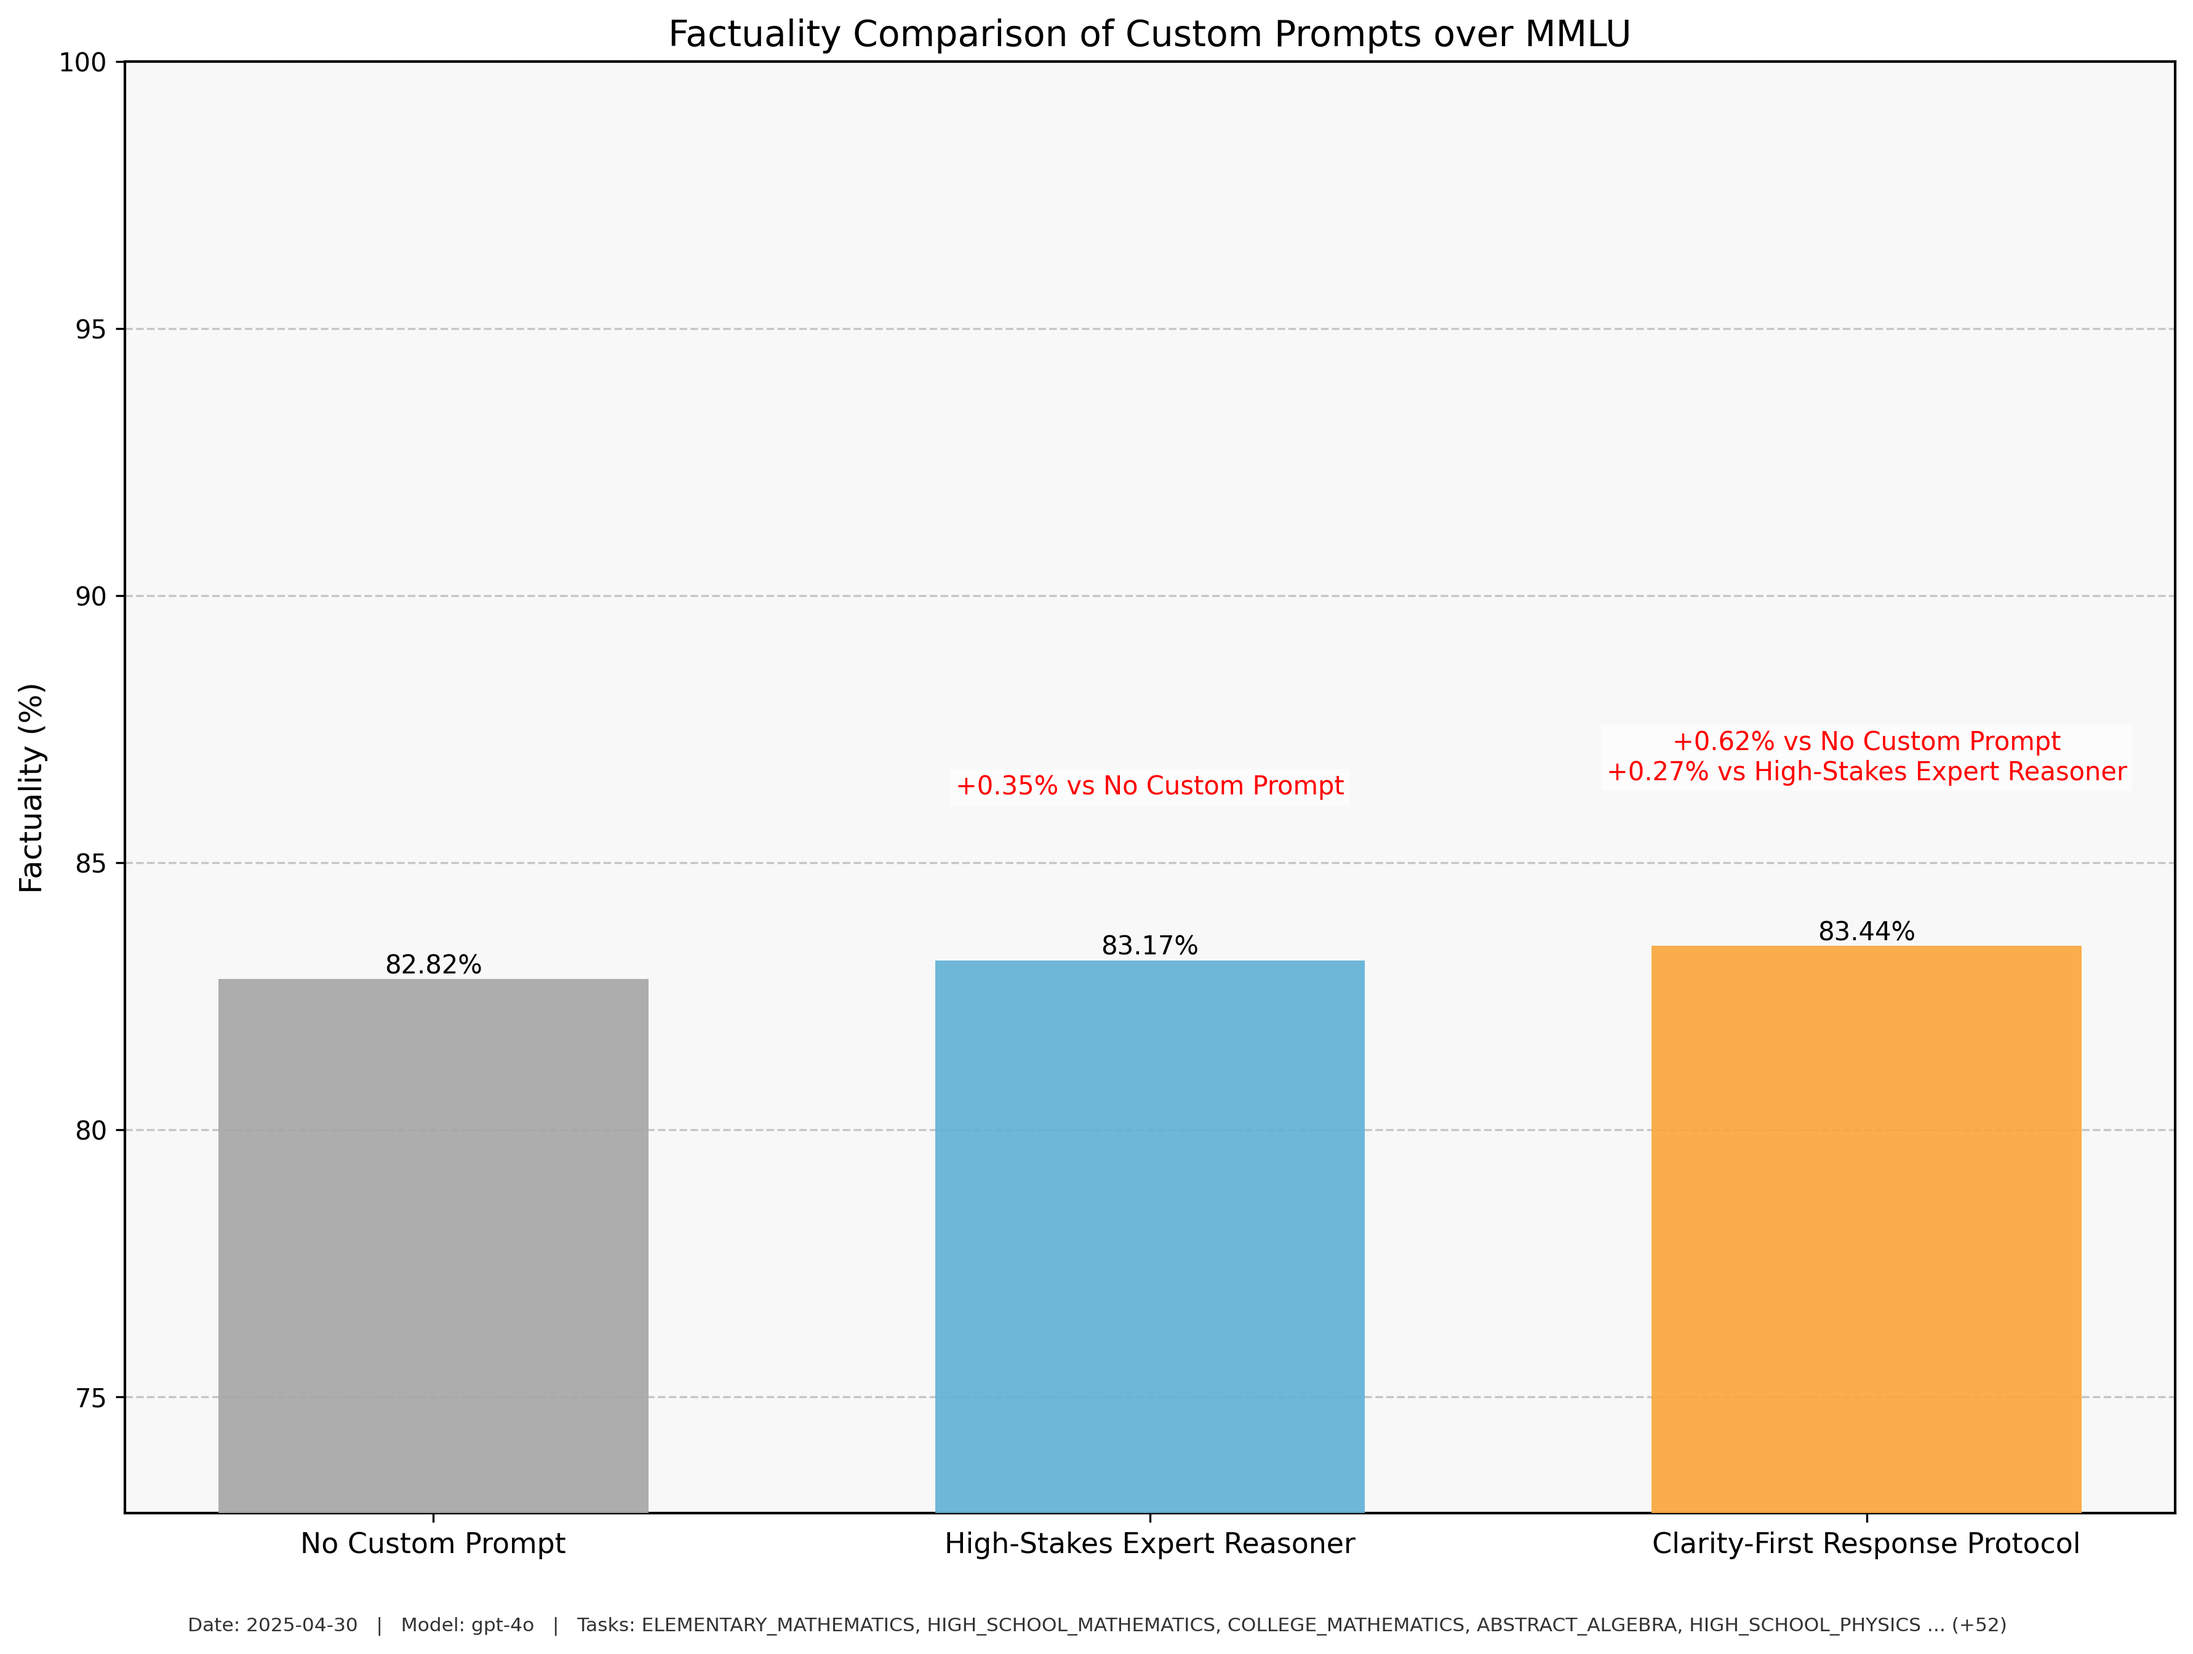
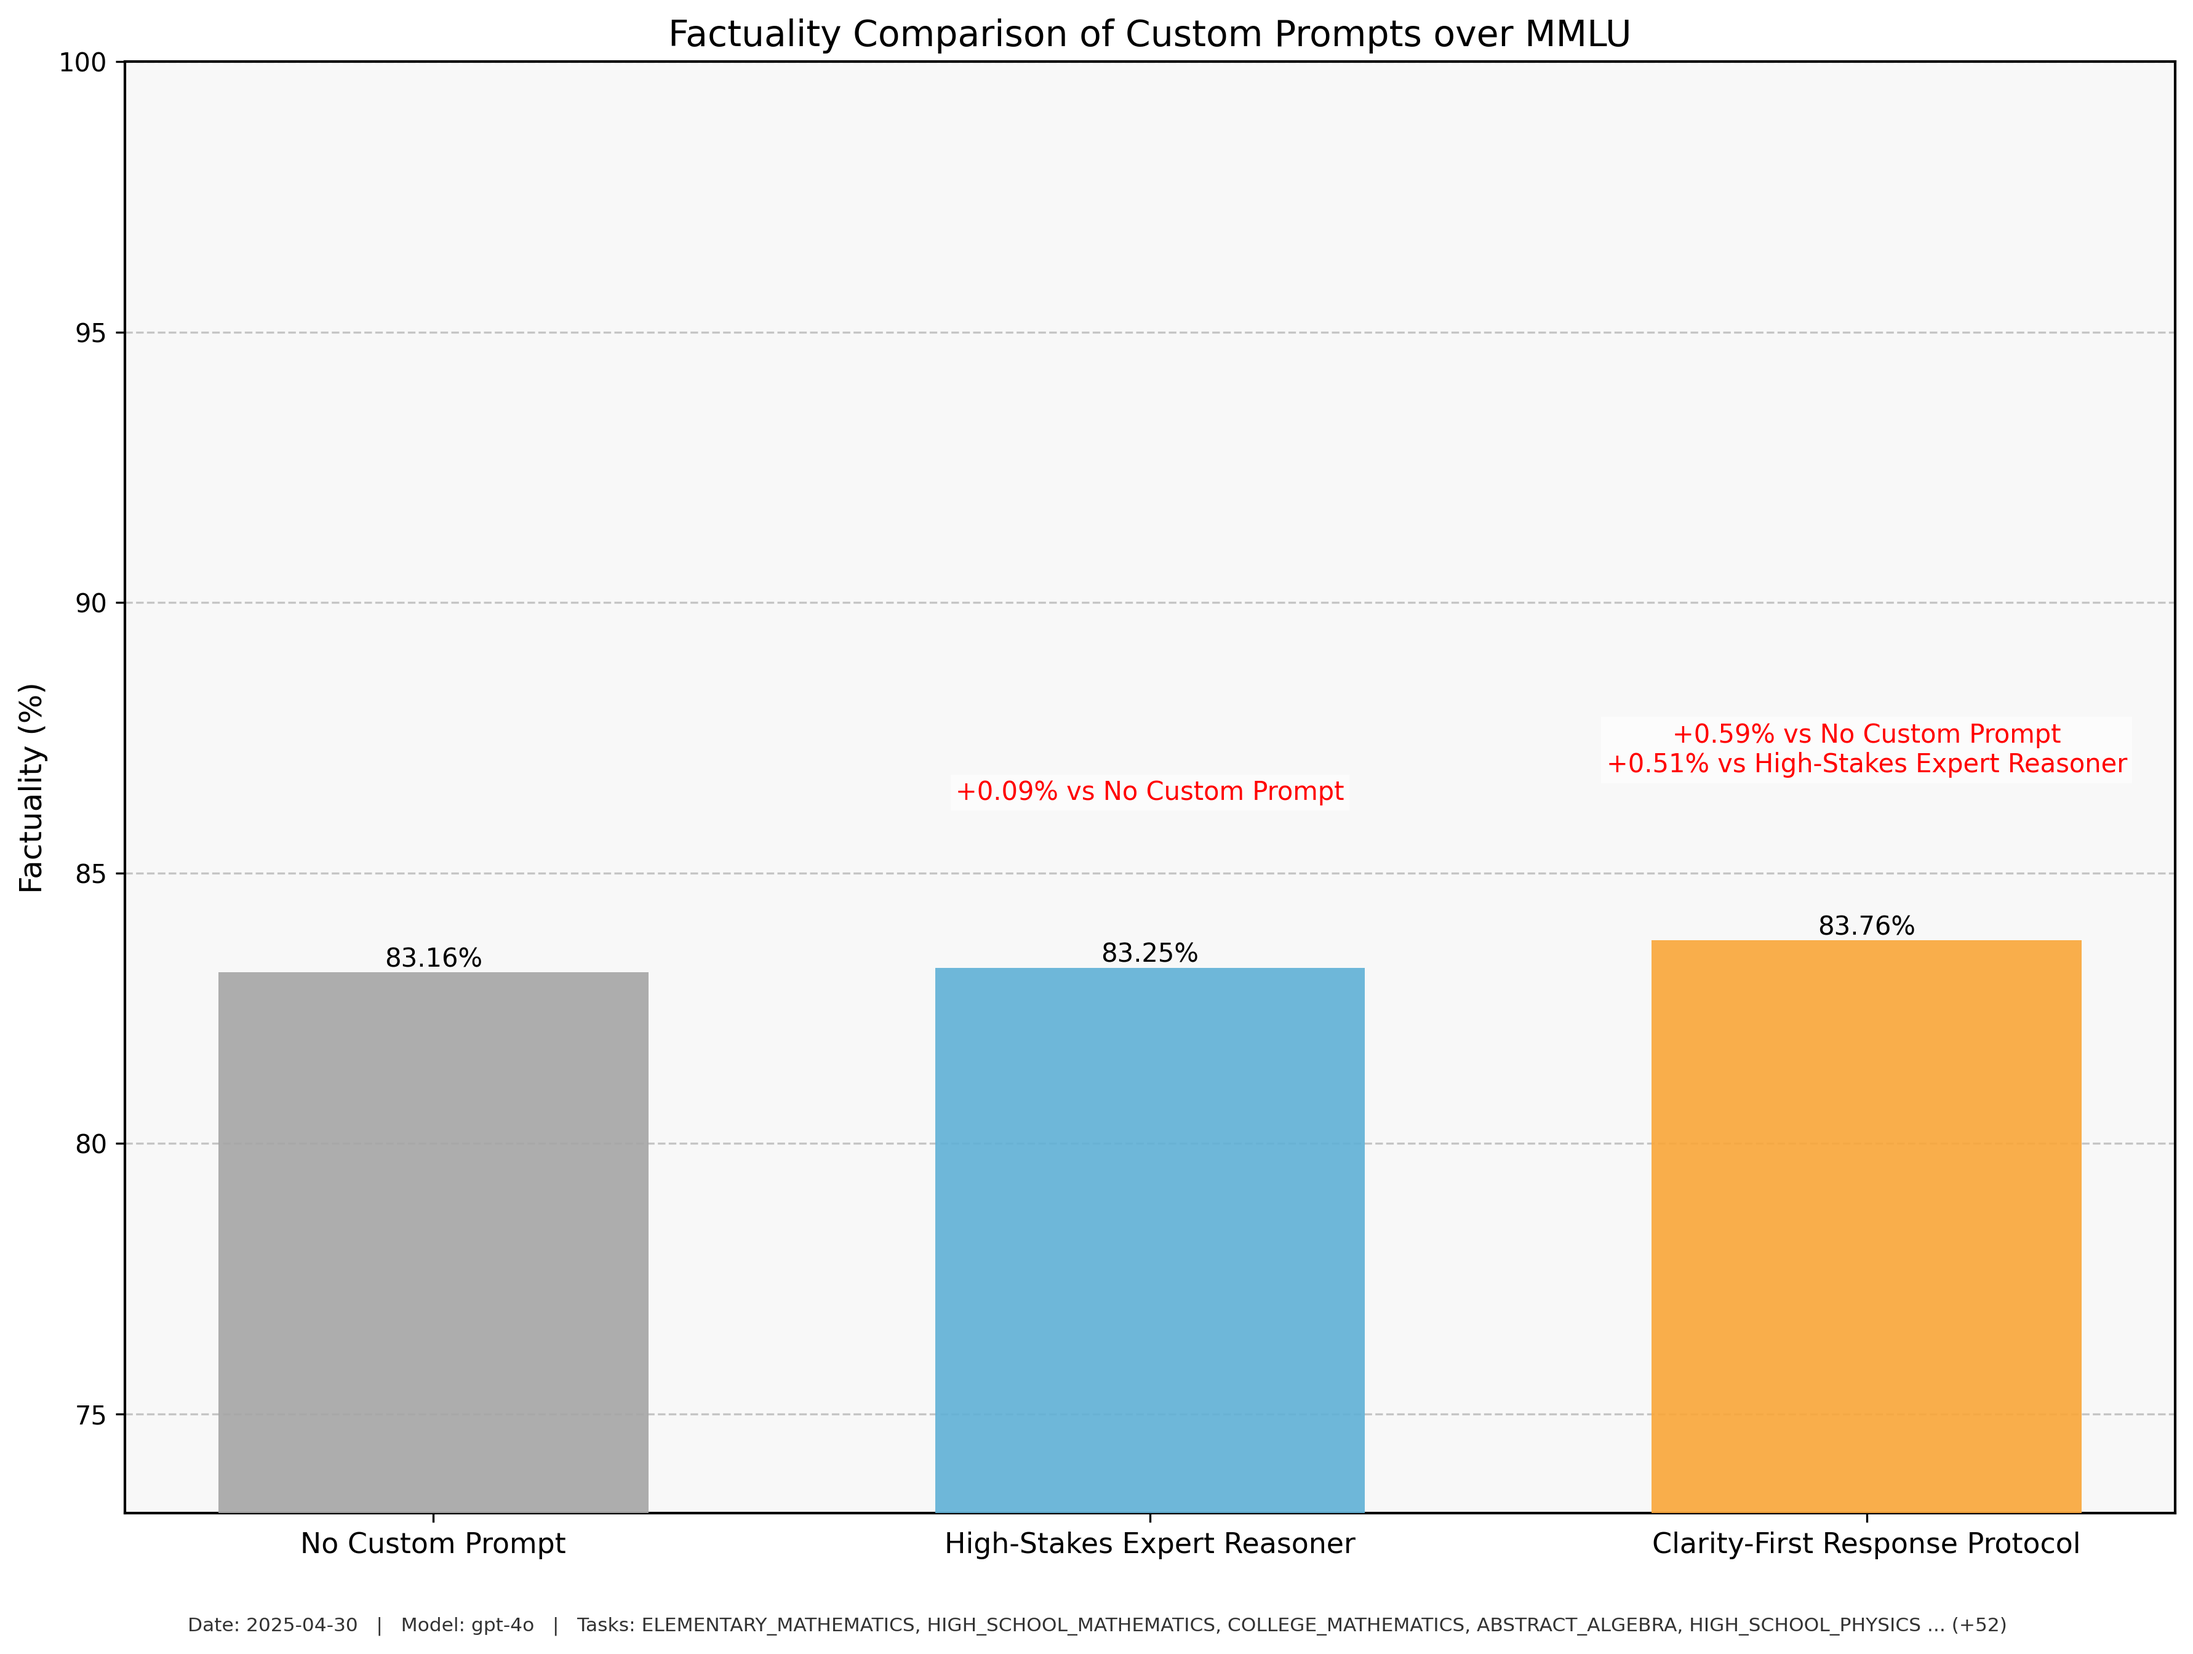
Update metrics

diff --git a/README.md b/README.md
@@ -15,13 +15,13 @@ This repository contains battle-tested custom instructions for ChatGPT that enha
 
 ## Performance Testing
 
-I invested ~$150 to test these instructions against the complete MMLU benchmark - a comprehensive test evaluating language models across mathematics, history, physics, medicine, law, and other domains. MMLU measures how well LLMs process information at college and professional levels.
+I invested ~193.39 to test these instructions against the complete MMLU benchmark - a comprehensive test evaluating language models across mathematics, history, physics, medicine, law, and other domains. MMLU measures how well LLMs process information at college and professional levels.
 
 Testing was conducted across **all MMLU categories**, encompassing approximately **14,000 tasks** in total. Instructions were evaluated using [Factly](https://factly.readthedocs.io) - a modern CLI tool for assessing LLM factuality. Results demonstrated:
 
-- **Baseline (No Custom Prompt)**: 82.82% factuality
-- **High-Stakes Expert Reasoner**: 83.17% factuality (+0.35%)
-- **Clarity-First Response Protocol**: 83.44% factuality (+0.62%)
+- **Baseline (No Custom Prompt)**: 83.16% factuality
+- **High-Stakes Expert Reasoner**: 83.25% factuality (+0.09% vs baseline)
+- **Clarity-First Response Protocol**: 83.76% factuality (+0.59% vs baseline, +0.51% vs High-Stakes Expert Reasoner)
 
 These results demonstrate meaningful improvements in GPT-4o's factual accuracy across elementary to college-level mathematics, abstract algebra, physics, and 52+ additional subject areas.
 
